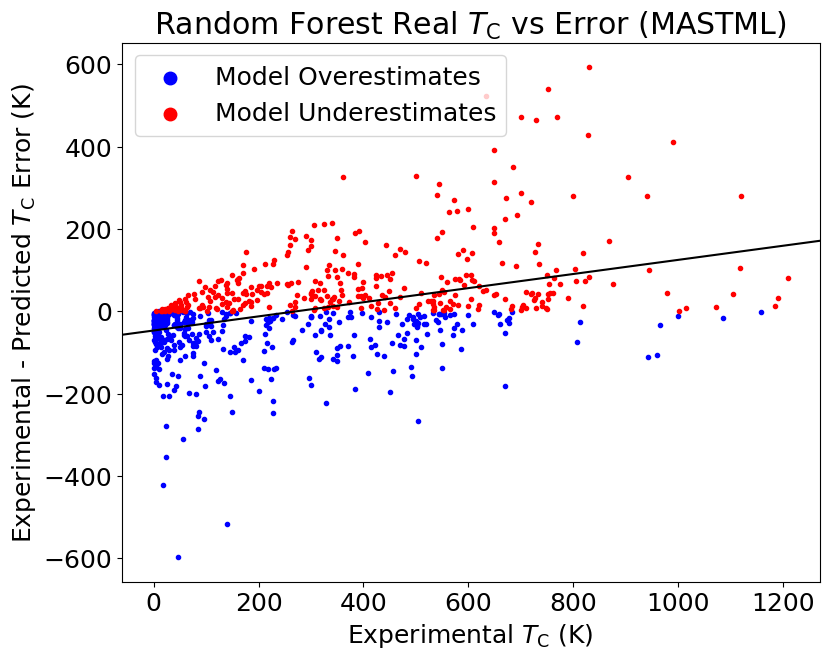
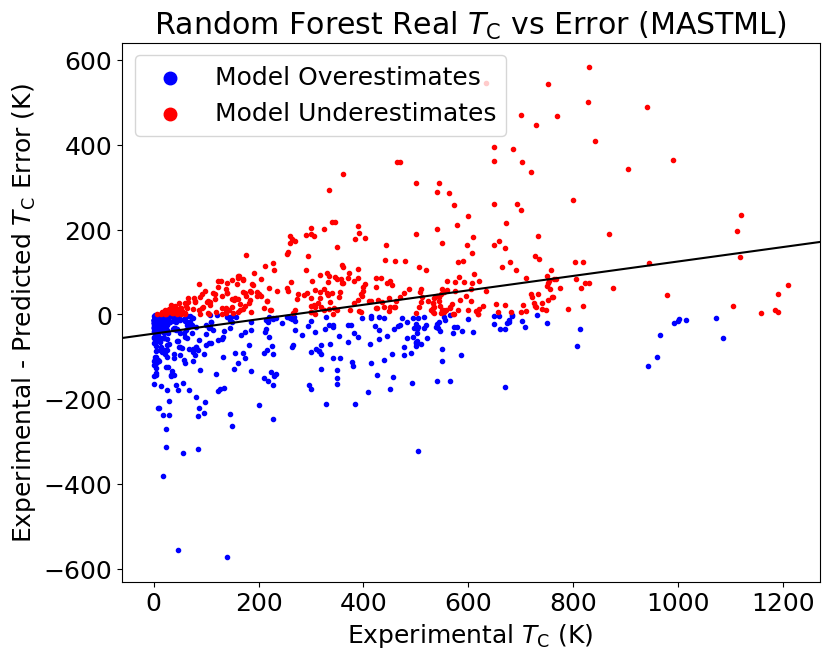
Added Even distribution random forest script

diff --git a/Code/EvenDistributionRandomForest-DS1.py b/Code/EvenDistributionRandomForest-DS1.py
@@ -1,0 +1,366 @@
+import numpy as np
+import matplotlib.pyplot as plt
+import csv
+import random as rnd
+# random forest for making predictions for regression
+from sklearn.ensemble import RandomForestRegressor
+
+# Reads in raw data and returns it in a list of lists
+def importFormattedData(): 
+    data = []
+
+    with open('Data/DS1.csv') as myFile:
+        csvdata = csv.reader(myFile, delimiter = ',')
+
+        for i in csvdata:
+            data.append(i)
+
+    myFile.close()
+
+    lend = len(data)
+    lenr = len(data[0])
+
+    for row in range(lend):
+        if row == 0:
+            continue
+        for ele in range(lenr):
+            if ele > 0:
+                data[row][ele] = float(data[row][ele])
+
+    #print(data)
+    return data
+
+def binData(data):
+    print("Dataset size is: ", len(data))
+    rnd.seed(50)
+    ss = 100;
+
+    binned = []
+
+    bin150 = []
+    bin300 = []
+    bin450 = []
+    bin600 = []
+    bin750 = []
+    bin900 = []
+    bin1050 = []
+    bin1200 = []
+    bin1350 = []
+    rest = []
+
+    for i in data:
+        if i[1] < 150:
+            print(i[1])
+            bin150.append(i)
+        elif i[1] < 300:
+            bin300.append(i)
+        elif i[1] < 450:
+            bin450.append(i)
+        elif i[1] < 600:
+            bin600.append(i)
+        elif i[1] < 750:
+            bin750.append(i)
+        elif i[1] < 900:
+            bin900.append(i)
+        elif i[1] < 1050:
+            bin1050.append(i)
+        elif i[1] < 1200:
+            bin1200.append(i)
+        elif i[1] < 1350:
+            bin1350.append(i)
+        else:
+            rest.append(i)
+
+    if len(bin150) > ss:
+        binned.extend(rnd.sample(bin150, ss))
+    else:
+        binned.extend(bin150)
+
+    if len(bin300) > ss:
+        binned.extend(rnd.sample(bin300, ss))
+    else:
+        binned.extend(bin300)
+
+    if len(bin450) > ss:
+        binned.extend(rnd.sample(bin450, ss))
+    else:
+        binned.extend(bin450)
+
+    if len(bin600) > ss:
+        binned.extend(rnd.sample(bin600, ss))
+    else:
+        binned.extend(bin600)
+
+    if len(bin750) > ss:
+        binned.extend(rnd.sample(bin750, ss))
+    else:
+        binned.extend(bin750)
+
+    if len(bin900) > ss:
+        binned.extend(rnd.sample(bin900, ss))
+    else:
+        binned.extend(bin900)
+
+    if len(bin1050) > ss:
+        binned.extend(rnd.sample(bin1050, ss))
+    else:
+        binned.extend(bin1050)
+
+    if len(bin1200) > ss:
+        binned.extend(rnd.sample(bin1200, ss))
+    else:
+        binned.extend(bin1200)
+
+    if len(bin1350) > ss:
+        binned.extend(rnd.sample(bin1350, ss))
+    else:
+        binned.extend(bin1350)
+
+    if len(rest) > ss:
+        binned.extend(rnd.sample(rest, ss))
+    else:
+        binned.extend(rest)
+
+    print("Binned size is: ", len(binned))
+
+    return binned
+
+
+
+
+# Separates data into a training set and a test set
+def selectData(data):
+    rnd.seed(50) #97, 70, 50
+    train = []
+    print("Dataset size is: ", len(data))
+    sampleSize = round(len(data)/3)
+
+    test = rnd.sample(data, sampleSize)
+    #control = data
+
+    print('Sample size = ', len(test))
+    print('Data size = ', len(data))
+
+    for i in range(len(data)):
+        boo = False
+        for j in range(len(test)):
+            if data[i][0] == test[j][0] and data[i][1] == test[j][1]:
+                boo = True
+        if boo == False:
+            train.append(data[i])
+    
+    print('Training set size = ', len(train))
+
+    return train, test
+
+def randForest():
+    matrix = binData(importFormattedData()[1::])
+    control, test = selectData(matrix)
+    trainMat = []
+    trainTc = []
+    print('Imported Data')
+    for i in control:
+        trainTc.append(i[1])
+        trainMat.append(i[2::])
+    X = np.array(trainMat)
+    y = np.array(trainTc)
+    print('Made array')
+    # define the model
+    model = RandomForestRegressor(max_depth=90, n_estimators=1800, min_samples_leaf = 1, min_samples_split = 2, random_state= 30)
+    # fit the model on the whole dataset
+    model.fit(X, y)
+    # make predictions
+    from pprint import pprint
+    # Look at parameters used by our current forest
+    print('Parameters currently in use:\n')
+    pprint(model.get_params())
+
+    testMat = []
+    testTc = []
+    for i in test:
+        testTc.append(i[1])
+        testMat.append(i[2::])
+
+    yhat = model.predict(testMat)
+    # summarize prediction
+    return yhat,testTc
+
+def calcPlotError():
+    pred, real = randForest()
+    b50 = 0
+    b100 = 0
+    errors = 0
+    count = 0
+    for i in range(len(pred)):
+        trueTC = real[i]
+        if trueTC > 600:
+            err = abs(pred[i] - trueTC)
+            if err < 50:
+                b50 = b50 + 1
+            if err < 100:
+                b100 = b100 + 1
+            errors = errors + err
+            count += 1
+    MAE = (errors/count)
+
+    b50 = (b50/count)*100
+    b100 = (b100/count)*100
+    avg = sum(real)/len(real)
+    num = 0
+    den = 0
+    for i in range(len(real)):
+        num = (real[i] - pred[i])**2 + num
+        den = (real[i] - avg)**2 + den
+
+    r2 = 1 - (num/den)
+
+
+    print('Random Forest finished with a ',MAE,' kelvin mean absolute error Above 600K')
+    print('Random Forest finished with a ',r2,' R^2 score')
+
+    plt.figure(figsize=(8, 8))
+    plt.rcParams.update({'font.size': 18})
+    plt.scatter(pred,real,marker=".")
+    plt.plot([0,1400],[0,1400],color='red')
+    plt.xlabel('Predicted $T_\mathrm{C}$ (K)')
+    plt.ylabel('Experimental $T_\mathrm{C}$ (K)')
+    plt.title('Sub-dataset Random Forest Prediction')
+    #plt.text(100, 1400, f'%d Kelvin Mean Average Error' % MAE, fontsize = 12)
+    plt.text(0, 1400, f'%d%% within 50 K (above 600 K)' % b50, fontsize = 17)
+    plt.text(0, 1300, f'%d%% within 100 K (above 600 K)' % b100, fontsize = 17)
+
+    plt.savefig("./Plots/Even Distribution Random Forest DS1.png", bbox_inches='tight')
+
+
+
+
+
+def errorTCReal():
+    pred, real = randForest()
+    
+    errors = []
+    b = []
+    A = []
+
+    for i in range(len(pred)):
+        trueTC = real[i]
+
+        err = trueTC - (pred[i])
+        errors.append(err)
+        A.append([1, real[i]])
+        b.append([err])
+
+
+    overx = []
+    overy = []
+    underx = []
+    undery = []
+
+    for i in range(len(errors)):
+        if errors[i] >= 0:
+            underx.append(real[i])
+            undery.append(errors[i])
+        else:
+            overx.append(real[i])
+            overy.append(errors[i])
+        
+
+    A = np.array(A)
+    b = np.array(b)
+
+    pinv = np.linalg.pinv(A)
+
+    xmat = np.matmul(pinv, b)
+
+    print("INTERCEPT AND SLOPE", xmat)
+
+        
+
+    # We can set the number of bins with the *bins* keyword argument.
+    plt.figure(figsize=(9, 7))
+    plt.rcParams.update({'font.size': 18})
+    plt.axline((0, xmat[0][0]), slope= xmat[1][0], color= 'black')
+    #plt.ylim(-400,800)
+    plt.scatter(overx, overy, marker = '.', c = 'b', label = 'Model Overestimates')
+    plt.scatter(underx, undery, marker = '.', c = 'r', label = 'Model Underestimates')
+    plt.xlabel('Experimental $T_\mathrm{C}$ (K)')
+    
+    
+    plt.legend(loc = 'upper left', markerscale = 3)
+    plt.ylabel('Experimental - Predicted $T_\mathrm{C}$ Error (K)')
+    plt.title('Random Forest Experimental $T_\mathrm{C}$ vs Error')
+    plt.savefig("./Plots/Even Distribution Random Forest Experimental Error DS1.png", bbox_inches='tight')
+    
+
+
+def errorTCPredicted():
+    pred, real = randForest()
+    
+    errors = []
+    b = []
+    A = []
+
+    for i in range(len(pred)):
+        trueTC = real[i]
+
+        err = trueTC - (pred[i])
+        errors.append(err)
+        A.append([1, pred[i]])
+        
+        b.append([err])
+
+
+    overx = []
+    overy = []
+    underx = []
+    undery = []
+
+
+    for i in range(len(errors)):
+        if errors[i] >= 0:
+            underx.append(pred[i])
+            undery.append(errors[i])
+        else:
+            overx.append(pred[i])
+            overy.append(errors[i])
+        
+
+    A = np.array(A)
+    b = np.array(b)
+
+    pinv = np.linalg.pinv(A)
+
+    xmat = np.matmul(pinv, b)
+
+    print("INTERCEPT AND SLOPE", xmat)
+
+
+    # We can set the number of bins with the *bins* keyword argument.
+    plt.figure(figsize=(9, 7))
+    plt.rcParams.update({'font.size': 18})
+    plt.axline((0, xmat[0][0]), slope= xmat[1][0], color= 'black')
+    #plt.ylim(-400,800)
+    plt.scatter(overx, overy, marker = '.', c = 'b', label = 'Model Overestimates')
+    plt.scatter(underx, undery, marker = '.', c = 'r', label = 'Model Underestimates')
+
+    plt.xlabel('Predicted $T_\mathrm{C}$ (K)')
+    plt.legend(loc = 'upper right', markerscale = 3)
+
+    plt.ylabel('Experimental - Predicted $T_\mathrm{C}$ Error (K)')
+    plt.title('Random Forest Predicted $T_\mathrm{C}$ vs Error')
+    plt.savefig("./Plots/Even Distribution Random Forest Predicted Error DS1.png", bbox_inches='tight')
+
+
+    
+
+calcPlotError()
+errorTCPredicted()
+errorTCReal()
+
+plt.show()
+
+
+
+
+
+be = {'bootstrap': True, 'max_depth': 90, 'max_features': 'auto', 'min_samples_leaf': 1, 'min_samples_split': 2, 'n_estimators': 1800}

diff --git a/Code/RandomForest-DS1-MASTML.py b/Code/RandomForest-DS1-MASTML.py
@@ -58,7 +58,7 @@ def importMastMLData():
 def selectData(data):
     rnd.seed(50) #97, 70, 50
     train = []
-    sampleSize = 767
+    sampleSize = round(len(data)/3)
 
     test = rnd.sample(data, sampleSize)
     #control = data
@@ -91,7 +91,7 @@ def randForestMe():
     y = np.array(trainTc)
     print('Made array')
     # define the model
-    model = RandomForestRegressor(random_state=30)
+    model = RandomForestRegressor(max_depth=90, n_estimators=1800, min_samples_leaf = 1, min_samples_split = 2, random_state=30)
     # fit the model on the whole dataset
     model.fit(X, y)
     # make predictions
